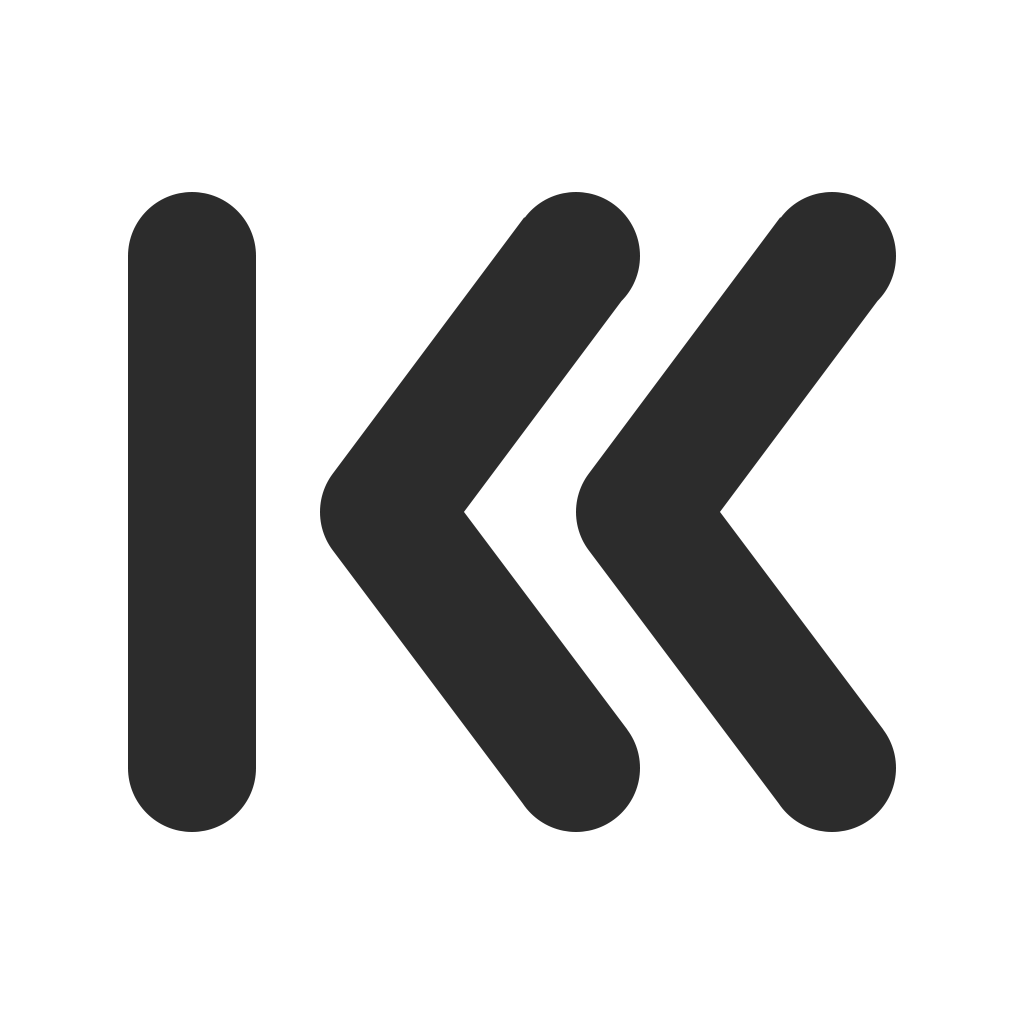
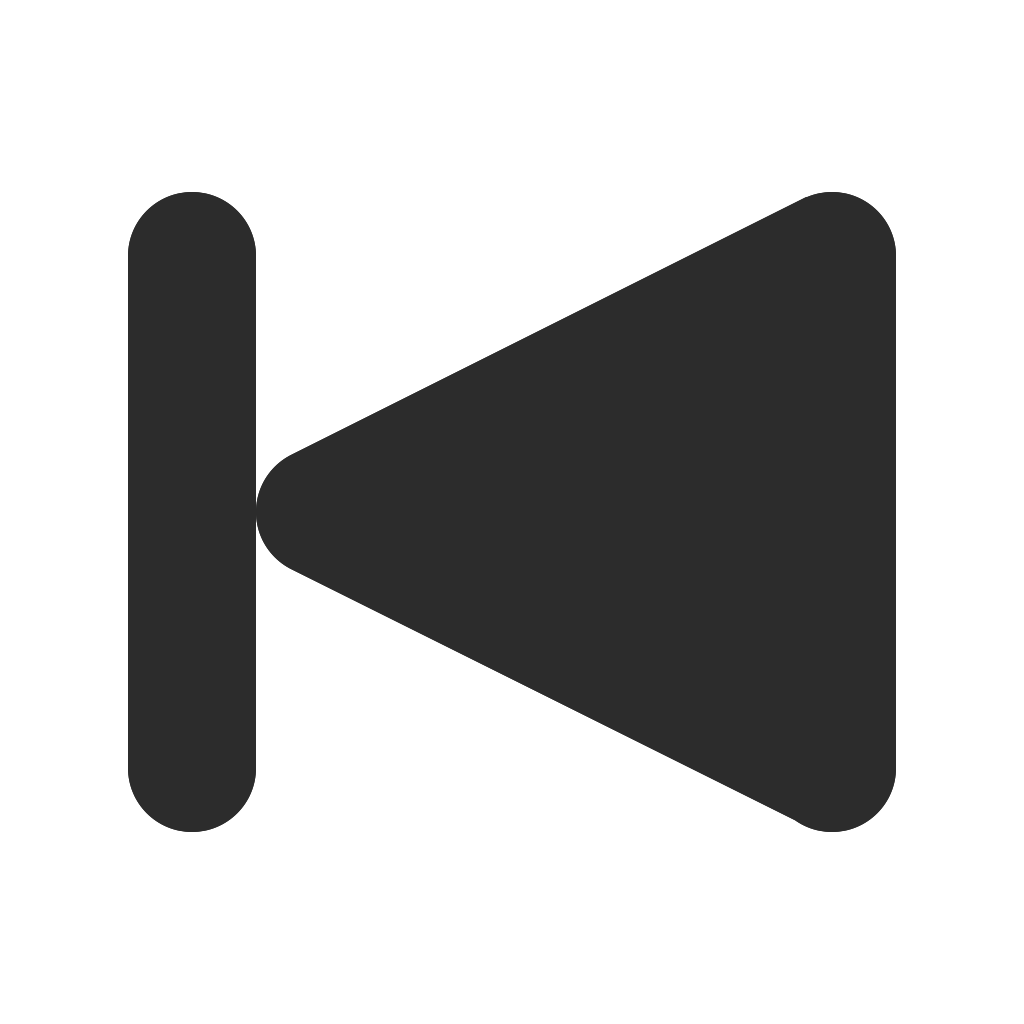
Control panel design.

diff --git a/JBSC/MainWindow.xaml b/JBSC/MainWindow.xaml
@@ -54,13 +54,13 @@
                     <Button.Effect>
                         <DropShadowEffect BlurRadius="3" ShadowDepth="3" Direction="0"/>
                     </Button.Effect>
-                    <Image x:Name="imgBtnBack" Source="C:\Users\Johann\Documents\Visual Studio 2015\Projects\JBSC\JBSC\images\1024x1024_ArrowButton.png" Height="30" Width="30"/>
+                    <Image x:Name="imgBtnBack" Source=".\images\1024x1024_ArrowButton.png" Height="30" Width="30"/>
                 </Button>
                 <Button x:Name="btnForward" Style="{DynamicResource CstmBtnOrangeHighlight}" Panel.ZIndex="4" Grid.Column="2" Grid.RowSpan="4" Grid.Row="1" Background="{x:Null}" BorderBrush="{x:Null}" Foreground="{x:Null}" Click="btnForward_Click">
                     <Button.Effect>
                         <DropShadowEffect BlurRadius="3" ShadowDepth="3" Direction="180"/>
                     </Button.Effect>
-                    <Image x:Name="imgBtnForward" Source="C:\Users\Johann\Documents\Visual Studio 2015\Projects\JBSC\JBSC\images\1024x1024_ArrowButton.png" Height="30" Width="30" RenderTransformOrigin="0.5,0.5">
+                    <Image x:Name="imgBtnForward" Source=".\images\1024x1024_ArrowButton.png" Height="30" Width="30" RenderTransformOrigin="0.5,0.5">
                         <Image.RenderTransform>
                             <TransformGroup>
                                 <ScaleTransform/>
@@ -71,7 +71,7 @@
                         </Image.RenderTransform>
                     </Image>
                 </Button>
-                <Image x:Name="imgEmblem" Grid.RowSpan="6" Source="images/1024x1024_JBSC_Icon.png" Stretch="UniformToFill">
+                <Image x:Name="imgEmblem" Grid.RowSpan="6" Source=".\images\1024x1024_JBSC_Icon.png" Stretch="UniformToFill">
                     <Image.Effect>
                         <DropShadowEffect ShadowDepth="3" BlurRadius="15"/>
                     </Image.Effect>
@@ -138,7 +138,7 @@
                     </Grid>
                 </Border>
                 <Button x:Name="btnSearch" Style="{DynamicResource CstmBtnSearch}" HorizontalContentAlignment="Right" Background="{x:Null}" BorderBrush="{x:Null}" Panel.ZIndex="4" MinWidth="30" MaxWidth="30" Margin="0,2" Grid.RowSpan="3" Grid.Row="2" Grid.Column="1" MouseEnter="btnSearch_MouseEnter" MouseLeave="btnSearch_MouseLeave" Click="btnSearch_Click">
-                    <Image x:Name="imgBtnSearch" Source="images/800x600_ButtonMagnifyingGlass.png"/>
+                    <Image x:Name="imgBtnSearch" Source=".\images\800x600_ButtonMagnifyingGlass.png"/>
                 </Button>
             </Grid>
         </Grid>
@@ -181,8 +181,34 @@
                 <RowDefinition Height="*"/>
             </Grid.RowDefinitions>
             <Grid.ColumnDefinitions>
-                
+                <ColumnDefinition Width="170*" MaxWidth="400" MinWidth="170"/>
+                <ColumnDefinition Width="622*"/>
             </Grid.ColumnDefinitions>
+            <Grid x:Name="grdTrackControl" Grid.Row="2" MinWidth="170" MaxWidth="400">
+                <Grid.ColumnDefinitions>
+                    <ColumnDefinition Width="*"/>
+                    <ColumnDefinition Width="*"/>
+                    <ColumnDefinition Width="*"/>
+                </Grid.ColumnDefinitions>
+                <Button x:Name="btnPrevious" Style="{DynamicResource CstmBtnNoHighlight}" BorderThickness="0" MinWidth="30" MinHeight="30" Background="{x:Null}" BorderBrush="{x:Null}" Foreground="{x:Null}" MouseEnter="btnPrevious_MouseEnter" MouseLeave="btnPrevious_MouseLeave">
+                    <Image x:Name="imgBtnPrev" Source="images/1024x1024_NxtPtvTrack.png"/>
+                </Button>
+                <Button x:Name="btnPausePlay" Style="{DynamicResource CstmBtnNoHighlight}" BorderThickness="0" MinWidth="30" MinHeight="30" Grid.Column="1" Foreground="{x:Null}" BorderBrush="{x:Null}" Background="{x:Null}" MouseEnter="btnPausePlay_MouseEnter" MouseLeave="btnPausePlay_MouseLeave">
+                    <Image x:Name="imgBtnPP" Source="images/1024x1024_Play.png"/>
+                </Button>
+                <Button x:Name="btnNext" Style="{DynamicResource CstmBtnNoHighlight}" Margin="0" BorderThickness="0" MinWidth="30" MinHeight="30" Grid.Column="2" Background="{x:Null}" BorderBrush="{x:Null}" Foreground="{x:Null}" MouseEnter="btnNext_MouseEnter" MouseLeave="btnNext_MouseLeave">
+                    <Image x:Name="imgBtnNext" Source="images/1024x1024_NxtPtvTrack.png" RenderTransformOrigin="0.5,0.5">
+                        <Image.RenderTransform>
+                            <TransformGroup>
+                                <ScaleTransform/>
+                                <SkewTransform/>
+                                <RotateTransform Angle="180"/>
+                                <TranslateTransform/>
+                            </TransformGroup>
+                        </Image.RenderTransform>
+                    </Image>
+                </Button>
+            </Grid>
         </Grid>
         <Grid x:Name="grdMainPanel" Margin="0" Panel.ZIndex="3" Grid.Row="1" Grid.Column="1"/>
         <Canvas x:Name="cvsTopPanel" HorizontalAlignment="Stretch" VerticalAlignment="Stretch" Background="#FFFF6800" Grid.ColumnSpan="2" MinHeight="60" MaxHeight="60" Panel.ZIndex="2" MouseDown="cvsTopPanel_MouseDown">
@@ -196,7 +222,7 @@
                 <DropShadowEffect BlurRadius="15" ShadowDepth="15" Direction="360" Opacity="0.5"/>
             </Canvas.Effect>
         </Canvas>
-        <Canvas x:Name="cvsControlPanel" Grid.Column="0" Background="#FF7C3200" Panel.ZIndex="2" Grid.ColumnSpan="2" Grid.Row="2" MinHeight="60" MaxHeight="100" Margin="0,0,0,-1">
+        <Canvas x:Name="cvsControlPanel" Grid.Column="0" Background="#FFCA5100" Panel.ZIndex="2" Grid.ColumnSpan="2" Grid.Row="2" MinHeight="60" MaxHeight="100" Margin="0,0,0,-1">
             <Canvas.Effect>
                 <DropShadowEffect BlurRadius="15" Direction="90" ShadowDepth="15" Opacity="0.5"/>
             </Canvas.Effect>
@@ -212,7 +238,7 @@
                     <ColumnDefinition Width="*"/>
                     <ColumnDefinition Width="*"/>
                 </Grid.ColumnDefinitions>
-                
+
             </Grid>
         </Canvas>
     </Grid>

diff --git a/JBSC/App.xaml b/JBSC/App.xaml
@@ -159,6 +159,36 @@
                 </Setter.Value>
             </Setter>
         </Style>
+        <Style x:Key="CstmBtnNoHighlight" TargetType="{x:Type Button}">
+            <Setter Property="FocusVisualStyle" Value="{StaticResource FocusVisual}"/>
+            <Setter Property="Background" Value="{StaticResource Button.Static.Background}"/>
+            <Setter Property="BorderBrush" Value="{StaticResource Button.Static.Border}"/>
+            <Setter Property="Foreground" Value="{DynamicResource {x:Static SystemColors.ControlTextBrushKey}}"/>
+            <Setter Property="BorderThickness" Value="1"/>
+            <Setter Property="HorizontalContentAlignment" Value="Center"/>
+            <Setter Property="VerticalContentAlignment" Value="Center"/>
+            <Setter Property="Padding" Value="1"/>
+            <Setter Property="Template">
+                <Setter.Value>
+                    <ControlTemplate TargetType="{x:Type Button}">
+                        <Border x:Name="border" BorderBrush="{TemplateBinding BorderBrush}" BorderThickness="{TemplateBinding BorderThickness}" Background="{TemplateBinding Background}" SnapsToDevicePixels="true">
+                            <ContentPresenter x:Name="contentPresenter" Focusable="False" HorizontalAlignment="{TemplateBinding HorizontalContentAlignment}" Margin="{TemplateBinding Padding}" RecognizesAccessKey="True" SnapsToDevicePixels="{TemplateBinding SnapsToDevicePixels}" VerticalAlignment="{TemplateBinding VerticalContentAlignment}"/>
+                        </Border>
+                        <ControlTemplate.Triggers>
+                            <Trigger Property="IsDefaulted" Value="true">
+                            </Trigger>
+                            <Trigger Property="IsMouseOver" Value="true">
+                            </Trigger>
+                            <Trigger Property="IsPressed" Value="true">
+                            </Trigger>
+                            <Trigger Property="IsEnabled" Value="false">
+                                <Setter Property="TextElement.Foreground" TargetName="contentPresenter" Value="{StaticResource Button.Disabled.Foreground}"/>
+                            </Trigger>
+                        </ControlTemplate.Triggers>
+                    </ControlTemplate>
+                </Setter.Value>
+            </Setter>
+        </Style>
 
     </Application.Resources>
 </Application>

diff --git a/JBSC/MainWindow.xaml.cs b/JBSC/MainWindow.xaml.cs
@@ -116,6 +116,36 @@ namespace JBSC
                 this.Foreground = Brushes.Gray;
             }
         }
+
+        private void btnPrevious_MouseEnter(object sender, MouseEventArgs e)
+        {
+            imgBtnPrev.Source = new BitmapImage(new Uri(@"\images\1024x1024_NxtPtvTrackGlow.png", UriKind.Relative));
+        }
+
+        private void btnPrevious_MouseLeave(object sender, MouseEventArgs e)
+        {
+            imgBtnPrev.Source = new BitmapImage(new Uri(@"\images\1024x1024_NxtPtvTrack.png", UriKind.Relative));
+        }
+
+        private void btnPausePlay_MouseEnter(object sender, MouseEventArgs e)
+        {
+            imgBtnPP.Source = new BitmapImage(new Uri(@"\images\1024x1024_PlayGlow.png", UriKind.Relative));
+        }
+
+        private void btnPausePlay_MouseLeave(object sender, MouseEventArgs e)
+        {
+            imgBtnPP.Source = new BitmapImage(new Uri(@"\images\1024x1024_Play.png", UriKind.Relative));
+        }
+
+        private void btnNext_MouseEnter(object sender, MouseEventArgs e)
+        {
+            imgBtnNext.Source = new BitmapImage(new Uri(@"\images\1024x1024_NxtPtvTrackGlow.png", UriKind.Relative));
+        }
+
+        private void btnNext_MouseLeave(object sender, MouseEventArgs e)
+        {
+            imgBtnNext.Source = new BitmapImage(new Uri(@"\images\1024x1024_NxtPtvTrack.png", UriKind.Relative));
+        }
     }
 
     public class PlaceholderTextbox : TextBox
